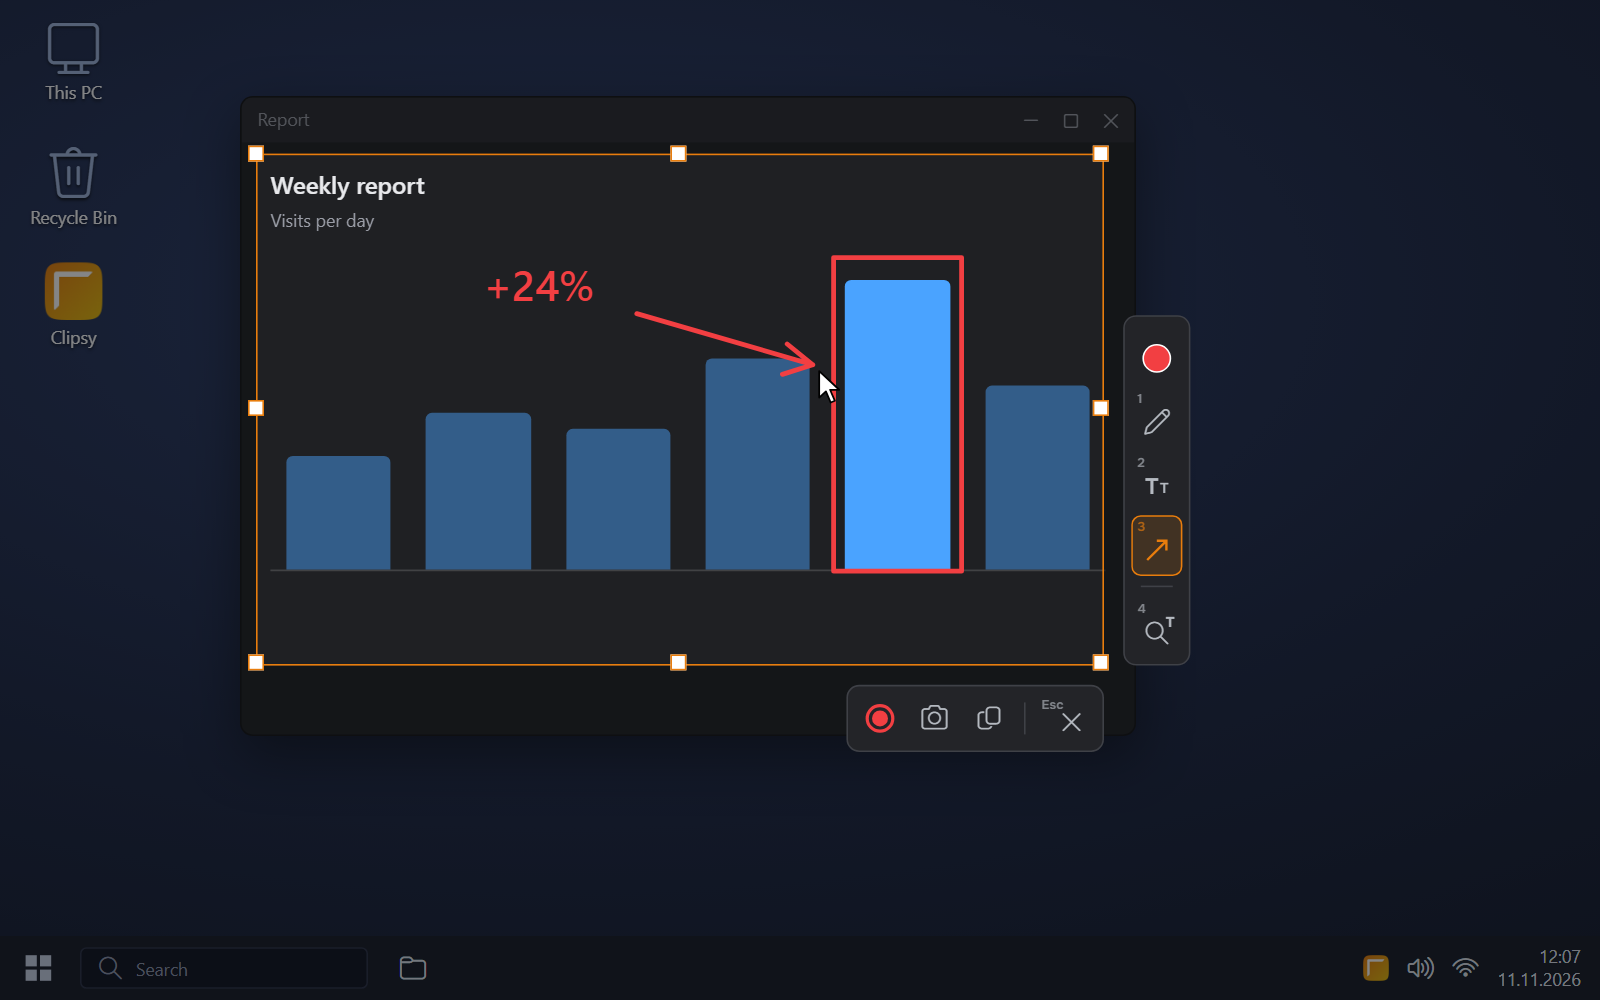
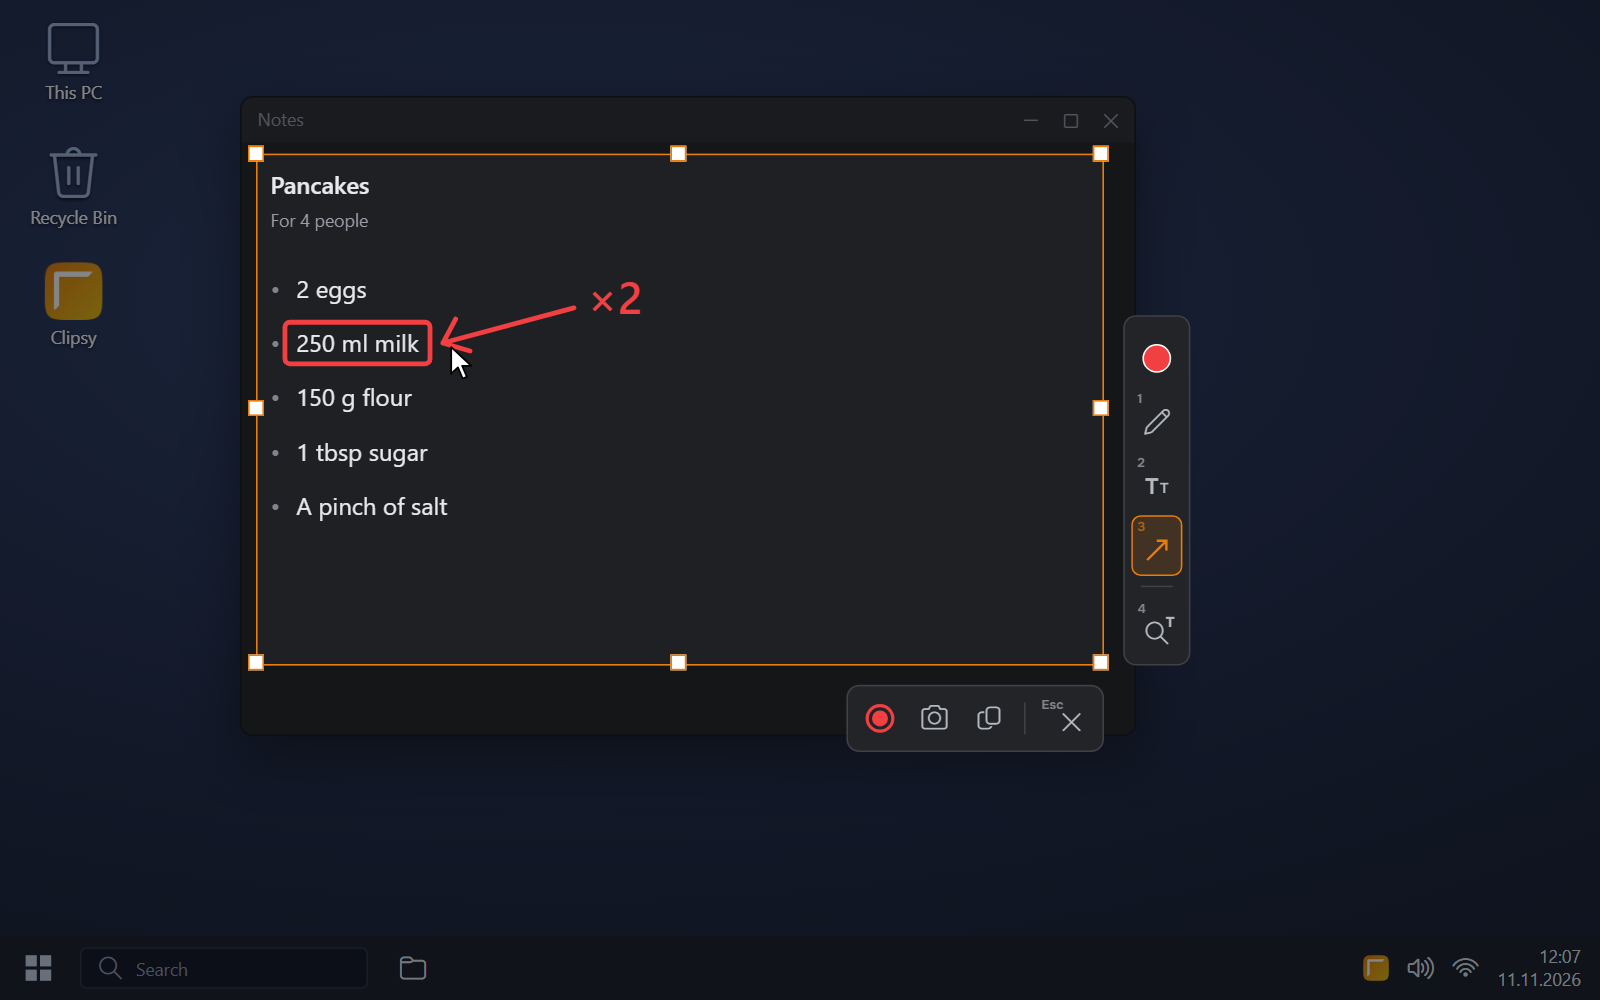
Site: neutral first screenshot, Clipsy in bold, dimmed decorative toggles

Changed region(s): [[0.1562, 0.248, 0.6875, 0.589], [0.1562, 0.279, 0.4062, 0.403], [0.1562, 0.155, 0.25, 0.248]]

diff --git a/site/ru/index.html b/site/ru/index.html
@@ -64,7 +64,7 @@
     <section id="download">
       <div class="inner hero">
         <h1>Программа для скриншотов и записи экрана в Windows</h1>
-        <p class="lead">Clipsy — небольшая и быстрая альтернатива «Ножницам» Windows. С ним можно сделать скриншот и сразу на нём порисовать, распознать и перевести текст с экрана, записать видео или GIF. И всё это в одном приложении!</p>
+        <p class="lead"><strong>Clipsy</strong> — небольшая и быстрая альтернатива «Ножницам» Windows. С ним можно сделать скриншот и сразу на нём порисовать, распознать и перевести текст с экрана, записать видео или GIF. И всё это в одном приложении!</p>
         <div class="actions">
           <a class="button primary" data-asset="setup" href="https://github.com/Sidiusz/Clipsy/releases/latest">Скачать для Windows</a>
           <a class="button" data-asset="zip" href="https://github.com/Sidiusz/Clipsy/releases/latest">Портативная версия (zip)</a>
@@ -112,7 +112,7 @@
             <a href="https://github.com/Sidiusz/Clipsy/blob/main/LICENSE">Лицензия</a>
             <a href="https://github.com/Sidiusz/Clipsy/issues">Сообщить о проблеме</a>
           </div>
-          <div>© 2026 Sidiusz. Распространяется по лицензии <a href="https://github.com/Sidiusz/Clipsy/blob/main/LICENSE">Clipsy Personal &amp; Internal-Use License</a>.</div>
+          <div>© 2026 Sidiusz. Распространяется по лицензии <a href="https://github.com/Sidiusz/Clipsy/blob/main/LICENSE"><strong>Clipsy</strong> Personal &amp; Internal-Use License</a>.</div>
         </div>
         <a class="button" href="#download">↑ Наверх</a>
       </footer>

diff --git a/site/index.html b/site/index.html
@@ -62,7 +62,7 @@
     <section id="download">
       <div class="inner hero">
         <h1>Screenshot and screen recording tool for Windows</h1>
-        <p class="lead">Clipsy is a small, fast alternative to the Windows Snipping Tool. It lets you take a screenshot and draw on it right away, recognize and translate text from the screen, and record video or GIF. And all of it in one app!</p>
+        <p class="lead"><strong>Clipsy</strong> is a small, fast alternative to the Windows Snipping Tool. It lets you take a screenshot and draw on it right away, recognize and translate text from the screen, and record video or GIF. And all of it in one app!</p>
         <div class="actions">
           <a class="button primary" data-asset="setup" href="https://github.com/Sidiusz/Clipsy/releases/latest">Download for Windows</a>
           <a class="button" data-asset="zip" href="https://github.com/Sidiusz/Clipsy/releases/latest">Portable version (zip)</a>
@@ -110,7 +110,7 @@
             <a href="https://github.com/Sidiusz/Clipsy/blob/main/LICENSE">License</a>
             <a href="https://github.com/Sidiusz/Clipsy/issues">Report a problem</a>
           </div>
-          <div>© 2026 Sidiusz. Distributed under the <a href="https://github.com/Sidiusz/Clipsy/blob/main/LICENSE">Clipsy Personal &amp; Internal-Use License</a>.</div>
+          <div>© 2026 Sidiusz. Distributed under the <a href="https://github.com/Sidiusz/Clipsy/blob/main/LICENSE"><strong>Clipsy</strong> Personal &amp; Internal-Use License</a>.</div>
         </div>
         <a class="button" href="#download">↑ Back to top</a>
       </footer>

diff --git a/site/style.css b/site/style.css
@@ -133,6 +133,7 @@ main { background: var(--bg1); padding: 1.75rem clamp(1.125rem, 4vw, 2.75rem) 2.
 
 .hero h1 { margin: 0.375rem 0 0.625rem; font-size: clamp(1.625rem, 4vw, 2.375rem); line-height: 1.15; font-weight: 650; }
 .hero .lead { margin: 0 0 1.25rem; max-width: 38.75rem; font-size: 1.0625rem; color: var(--text2); }
+.lead strong { color: var(--text); font-weight: 650; }
 
 .actions { display: flex; flex-wrap: wrap; gap: 0.625rem; }
 .button {
@@ -188,7 +189,7 @@ section .label { margin-bottom: 0.625rem; }
 .card.two { display: grid; grid-template-columns: 1fr 1fr; column-gap: 2.5rem; }
 .card.two .row:nth-child(2) { border-top: 0; }
 
-.toggle { flex: none; width: 2.25rem; height: 1.25rem; border-radius: 0.625rem; background: var(--accent); position: relative; }
+.toggle { flex: none; width: 2.25rem; height: 1.25rem; border-radius: 0.625rem; background: var(--accent); position: relative; opacity: 0.4; cursor: default; pointer-events: none; }
 .toggle::after { content: ""; position: absolute; top: 0.25rem; right: 0.25rem; width: 0.75rem; height: 0.75rem; border-radius: 50%; background: #fff; }
 
 footer { display: flex; flex-wrap: wrap; align-items: center; justify-content: space-between; gap: 1rem; margin-top: 2.125rem; padding-top: 1rem; border-top: 1px solid var(--border); font-size: 0.8125rem; color: var(--text3); }
